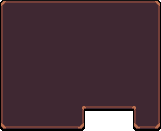
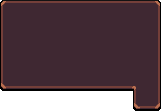
Patch 1.1.1 changes

Changed region(s): [[0.0, 0.7568, 0.8696, 1.0], [0.0, 0.0, 1.0, 0.0541], [0.8075, 0.9189, 1.0, 1.0]]

diff --git a/src/components/interface/inventory/InventoryTab.tsx b/src/components/interface/inventory/InventoryTab.tsx
@@ -1,6 +1,7 @@
 import { useState } from 'react';
 import { Box, Typography } from '@mui/material';
 import { useField } from 'react-final-form';
+import Scrollbars from 'react-custom-scrollbars';
 
 import inventoryPanel from 'assets/inventory/inventoryPanel.png';
 import storagePanel from 'assets/inventory/storagePanel.png';
@@ -75,53 +76,70 @@ const InventoryTab = ({ variant }: Props) => {
 			>
 				<Sprite
 					img={variant === 'storage' ? storagePanel : inventoryPanel}
+					width={161}
+					height={variant === 'inventory' ? 116 : 111}
 					sx={{
-						'position': 'relative',
-						'display': 'grid',
-						'gridTemplateColumns': '1fr 1fr 1fr 1fr 1fr 1fr 1fr 1fr',
-						'gap': 1,
-						'px': 5,
-						'pt': 5,
-						'pb': variant === 'storage' ? 7 : 27,
-						'> *:first-of-type': {
-							mb: variant === 'inventory' ? 5 : undefined
-						}
+						position: 'relative',
+						px: 5,
+						pt: 5,
+						pb: 27,
+						mb: variant === 'storage' ? 5 : 0
 					}}
 				>
-					{inventoryItems.map((item, index) => (
-						<ItemSlot
-							key={index}
-							item={item}
-							hideTooltip={!!heldItem}
-							onClick={e => {
-								if (item && e.shiftKey && !heldItem) {
-									const delta = e.button === 2 ? -1 : 1;
-									setItem(index, stackItem(upgradeItem(item, delta), delta));
-									return;
+					<Scrollbars style={{ width: '100%', height: '100%' }}>
+						<Box
+							sx={{
+								'display': 'grid',
+								'gridTemplateColumns': '1fr 1fr 1fr 1fr 1fr 1fr 1fr 1fr',
+								'gap': 1,
+								'> *:first-of-type': {
+									mb: variant === 'inventory' ? 5 : undefined
 								}
-
-								if (item && heldItem && isStackable(Items[item.id], heldItem)) {
-									const sum = item.count + heldItem.count;
-									if (sum <= 255) {
-										setHeldItem(undefined);
-										setItem(index, { ...item, count: sum });
-									} else {
-										setHeldItem({ ...item, count: sum - 255 });
-										setItem(index, { ...item, count: 255 });
-									}
-									return;
-								}
-
-								setHeldItem(item);
-								setItem(index, heldItem);
 							}}
-						/>
-					))}
+						>
+							{inventoryItems.map((item, index) => (
+								<ItemSlot
+									key={index}
+									item={item}
+									hideTooltip={!!heldItem}
+									onClick={e => {
+										if (item && e.shiftKey && !heldItem) {
+											const delta = e.button === 2 ? -1 : 1;
+											setItem(
+												index,
+												stackItem(upgradeItem(item, delta), delta)
+											);
+											return;
+										}
+
+										if (
+											item &&
+											heldItem &&
+											isStackable(Items[item.id], heldItem)
+										) {
+											const sum = item.count + heldItem.count;
+											if (sum <= 255) {
+												setHeldItem(undefined);
+												setItem(index, { ...item, count: sum });
+											} else {
+												setHeldItem({ ...item, count: sum - 255 });
+												setItem(index, { ...item, count: 255 });
+											}
+											return;
+										}
+
+										setHeldItem(item);
+										setItem(index, heldItem);
+									}}
+								/>
+							))}
+						</Box>
+					</Scrollbars>
 					<Box
 						sx={{
 							position: 'absolute',
 							right: t => t.spacing(5),
-							bottom: t => t.spacing(variant === 'inventory' ? 2 : 7)
+							bottom: t => t.spacing(7)
 						}}
 					>
 						<ItemSlot
@@ -145,9 +163,9 @@ const InventoryTab = ({ variant }: Props) => {
 								const itemMeta = Items[heldItem.id];
 								const canEquip =
 									index === 0
-										? itemMeta.type === 'Head Armour'
+										? itemMeta.type.match('Head Armour')
 										: index === 1
-										? itemMeta.type === 'Body Armour'
+										? itemMeta.type.match('Body Armour')
 										: itemMeta.type === 'Ring';
 
 								if (!canEquip) {

diff --git a/scripts/updateWikiBadges.js b/scripts/updateWikiBadges.js
@@ -1,0 +1,41 @@
+const fs = require('fs');
+const yaml = require('js-yaml');
+
+const items = yaml
+	.load(fs.readFileSync('src/utils/data/badges.yaml').toString())
+	.filter(f => f);
+
+const data = fs.readFileSync('scripts/badges.lua').toString();
+const parsed = JSON.parse(
+	data
+		.replace(/^return /, '')
+		.replaceAll(/ ?= ?/g, ': ')
+		.replaceAll(/(\S*): /g, '"$1": ')
+		.replaceAll(/ ?--.*/g, '')
+		.replaceAll(/(\d)\.,/g, '$1.0,')
+);
+
+const newData = items
+	.map(({ id, ...meta }) => {
+		const wiki = Object.values(parsed).find(v => v.name === meta.name) ?? {};
+		return {
+			...wiki,
+			...meta
+		};
+	})
+	.reduce(
+		(obj, next) => ({
+			...obj,
+			[next.name
+				.toLowerCase()
+				.replaceAll(/$.*;/g, '')
+				.replaceAll(/[^0-9a-z ]/g, '')
+				.replaceAll(/ /g, '_')]: next
+		}),
+		{}
+	);
+
+fs.writeFileSync(
+	'scripts/badges.lua',
+	`return ${JSON.stringify(newData, null, 2).replaceAll(/"(.*)": /g, '$1 = ')}`
+);

diff --git a/src/utils/index.ts b/src/utils/index.ts
@@ -63,7 +63,7 @@ const isSame = (item: Item, other?: Pick<Item, 'id'>) =>
 	!other || item.id === other.id;
 
 export const isStackable = (item: Item, other?: Pick<Item, 'id'>) =>
-	item.type === 'Material' && isSame(item, other);
+	item?.type === 'Material' && isSame(item, other);
 
 export const stackItem = (
 	item: InventoryItem,
@@ -75,7 +75,7 @@ export const stackItem = (
 		: item;
 
 export const isUpgradeable = (item: Item, other?: Pick<Item, 'id'>) =>
-	!!item.type.match(/.* Weapon/) && isSame(item, other);
+	!!item?.type.match('Weapon') && isSame(item, other);
 
 export const upgradeItem = (
 	item: InventoryItem,

diff --git a/src/components/interface/inventory/ItemCheatMenu.tsx b/src/components/interface/inventory/ItemCheatMenu.tsx
@@ -33,6 +33,7 @@ const ItemCheatMenu = ({ hideTooltip, onClick }: Props) => {
 				sx={{
 					'position': 'absolute',
 					'left': 0,
+					'top': 0,
 					'transform': 'translateX(-100%)',
 					'backgroundColor': '#262b44',
 					'height': t => t.spacing(170),
@@ -103,7 +104,7 @@ const ItemCheatMenu = ({ hideTooltip, onClick }: Props) => {
 						}}
 					>
 						{Items.filter(v => v)
-							.filter(v => !filter || v.type === filter)
+							.filter(v => !filter || v.type.match(filter))
 							.map(item => (
 								<ItemSlot
 									key={item.id}

diff --git a/src/components/interface/inventory/ItemStats.tsx b/src/components/interface/inventory/ItemStats.tsx
@@ -92,7 +92,17 @@ const ItemStats = ({
 				#{id}
 			</Typography>
 		</Typography>
-		<Typography color="text.secondary">{type}</Typography>
+
+		{type.match(' Material') ? (
+			<>
+				<Typography color="text.secondary">
+					{type.split(' ').slice(0, 2).join(' ')}
+				</Typography>
+				<Typography color="text.secondary">Material</Typography>
+			</>
+		) : (
+			<Typography color="text.secondary">{type}</Typography>
+		)}
 
 		{effect && <Typography>{effect}</Typography>}
 

diff --git a/src/utils/data.tsx b/src/utils/data.tsx
@@ -145,8 +145,8 @@ export type Item = {
 	inflicts?: Record<string, string | number>;
 } & (
 	| { type: 'Material' }
-	| { type: `${'Melee' | 'Ranged' | 'Magical'} Weapon` }
-	| { type: `${'Head' | 'Body'} Armour` }
+	| { type: `${'Melee' | 'Ranged' | 'Magical'} Weapon${'' | ' Material'}` }
+	| { type: `${'Head' | 'Body'} Armour${'' | ' Material'}` }
 	| { type: 'Ring' }
 	| { type: 'Treasure' }
 );
